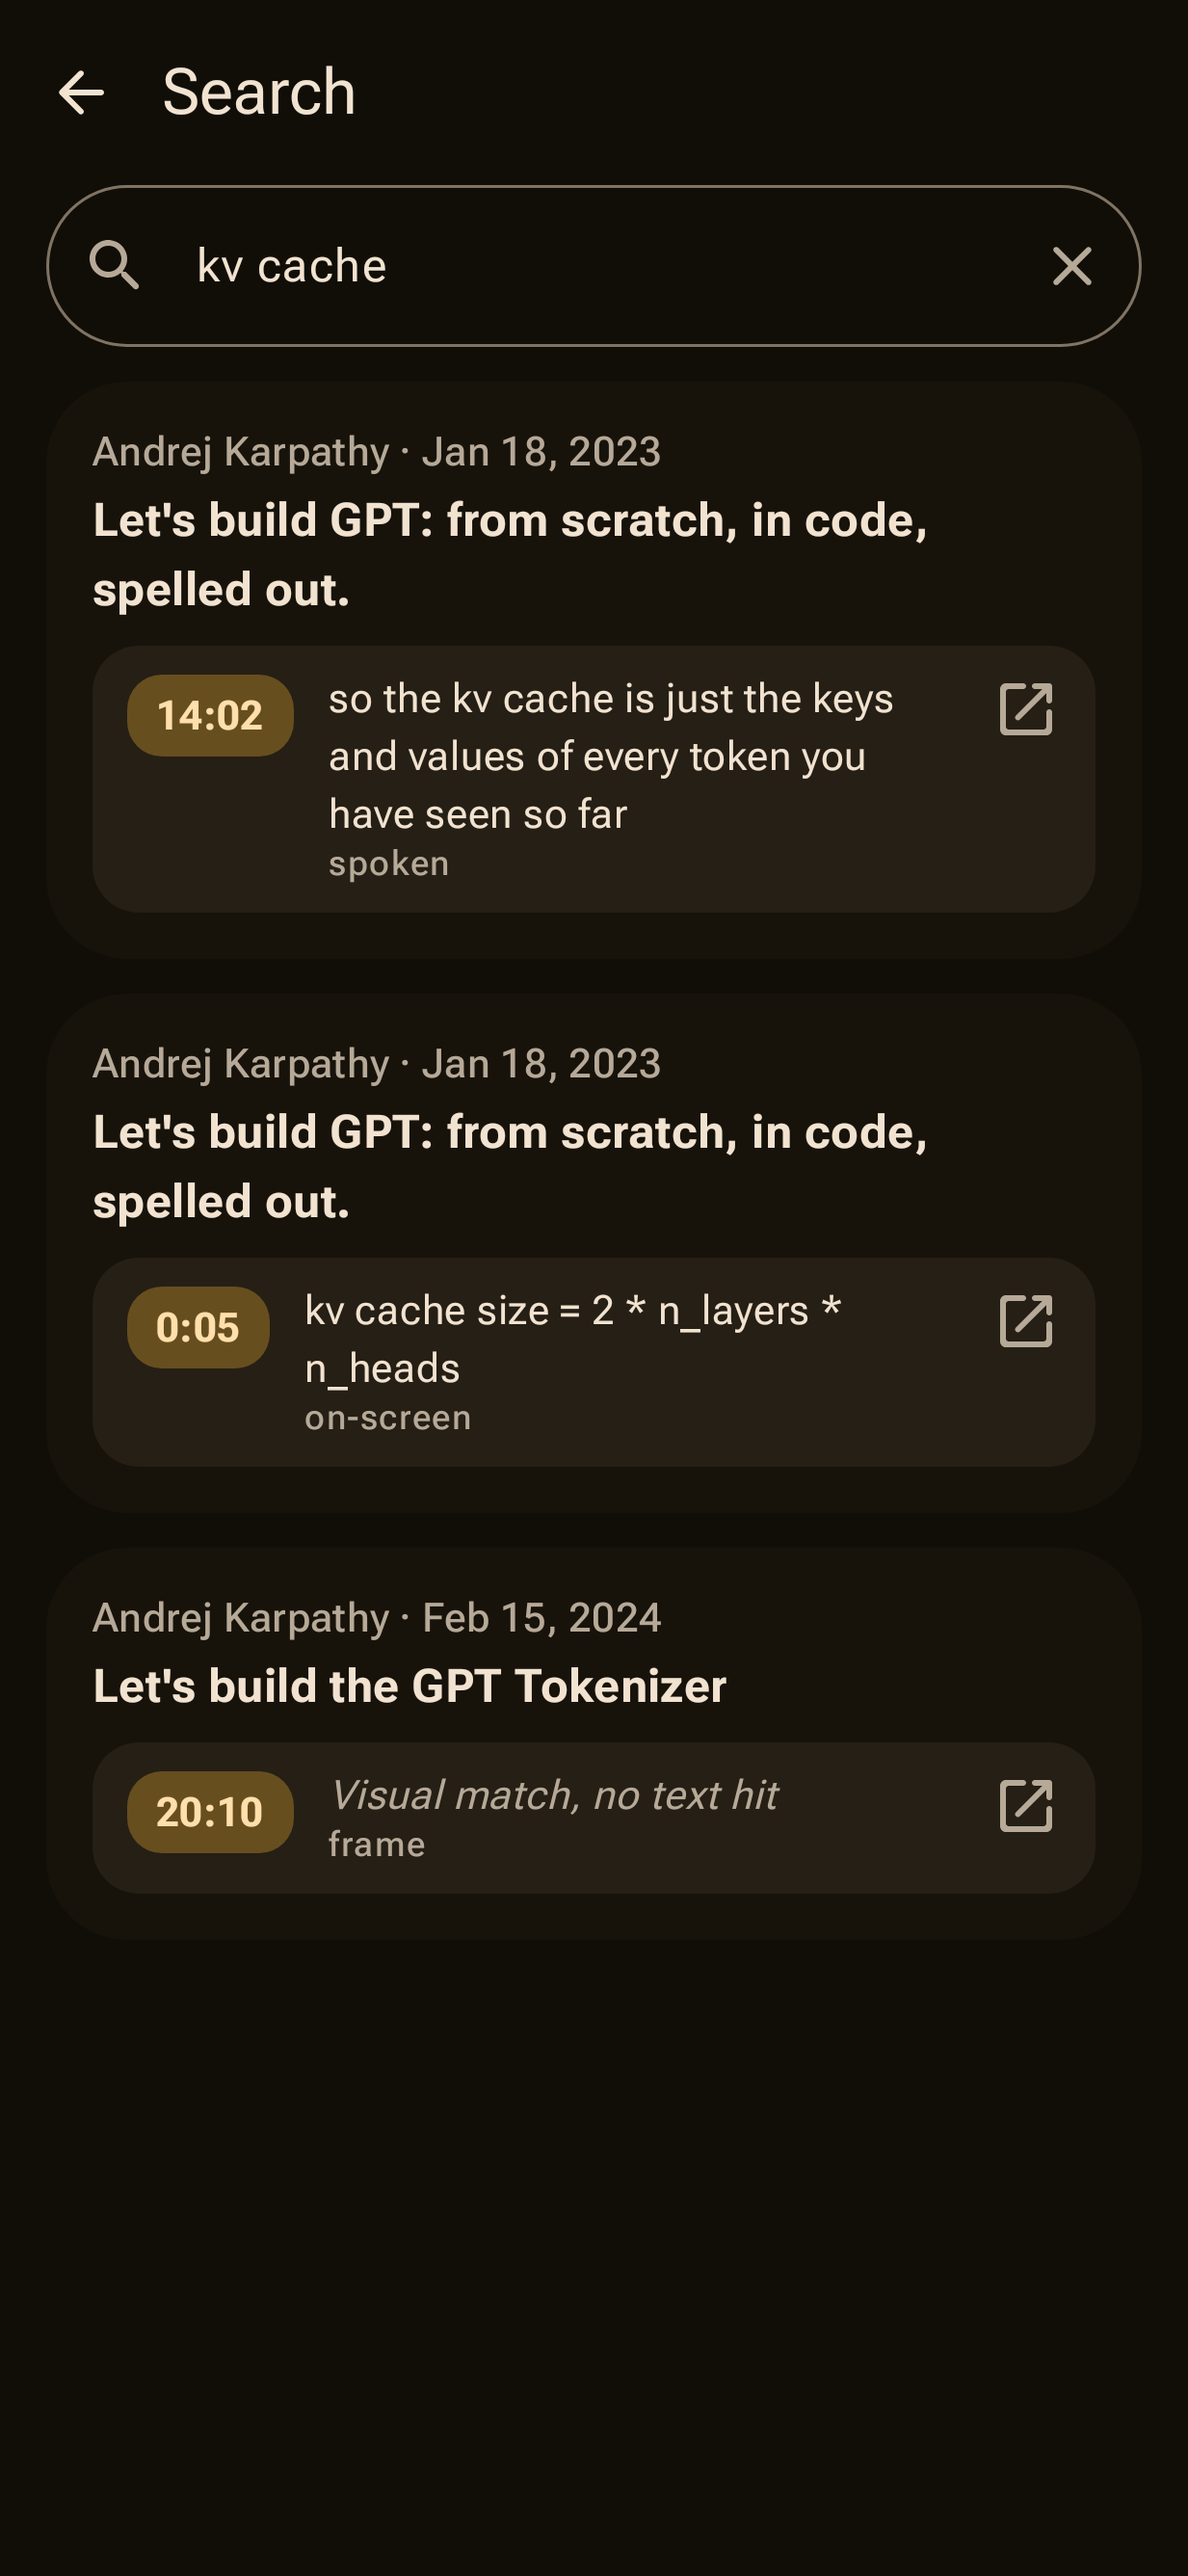
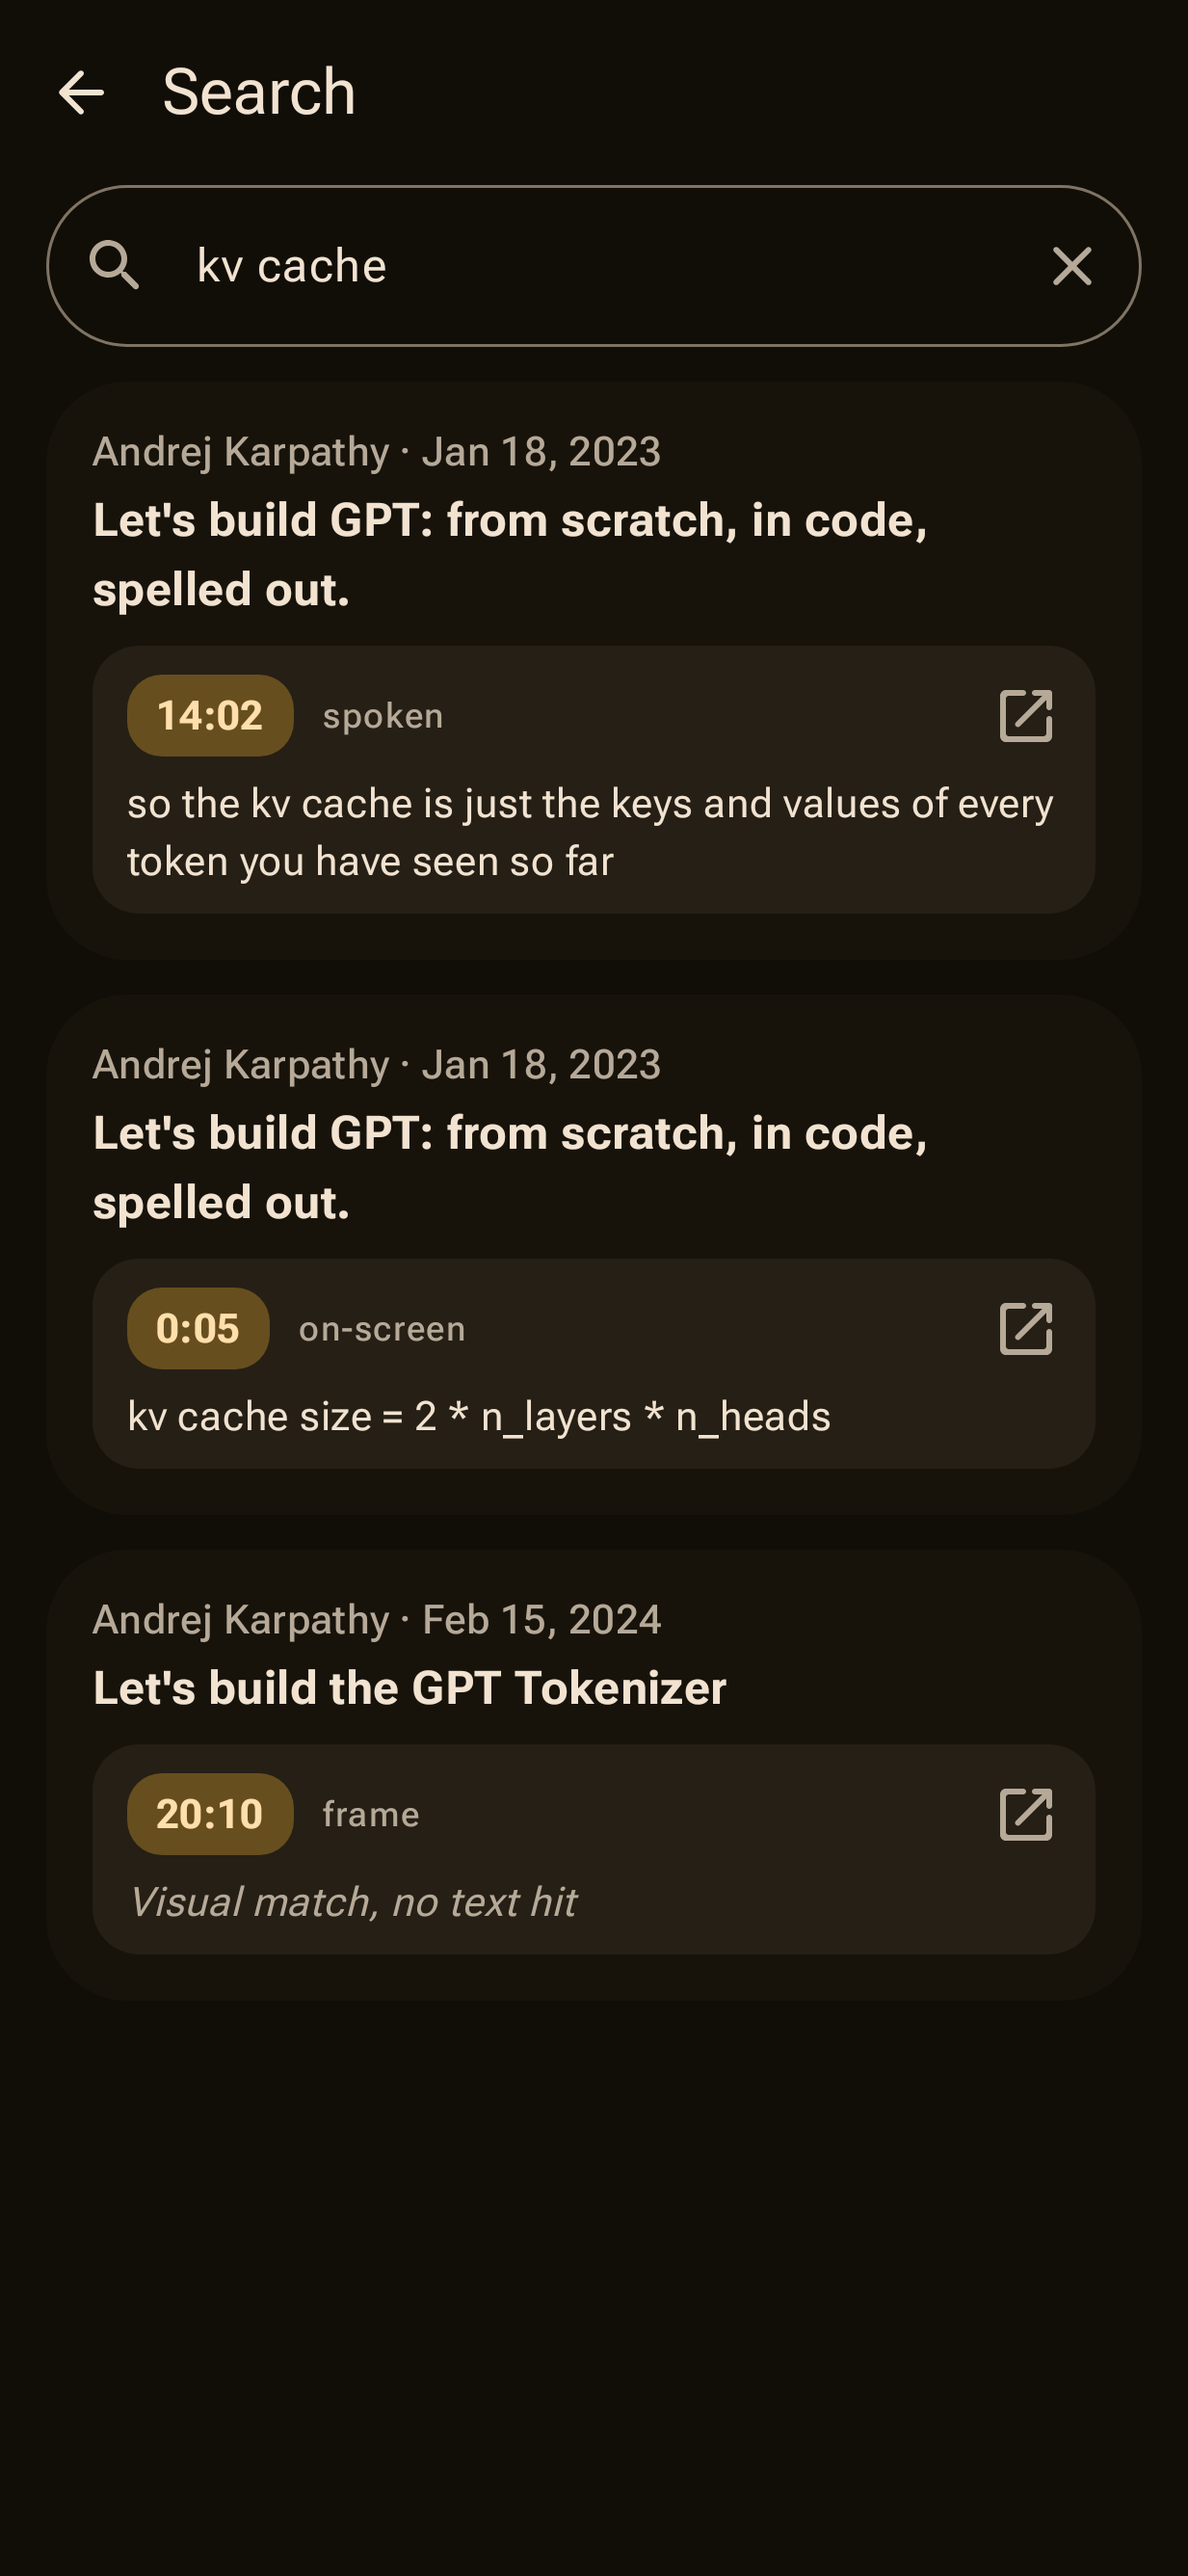
android: a search moment puts its timestamp above the text (#175)
The chip sat beside the text and left a gap under it; the chip, the
evidence and the open icon now share one line, and the text takes the
full width.

diff --git a/android/app/src/main/kotlin/dev/vidtheque/app/ui/search/SearchScreen.kt b/android/app/src/main/kotlin/dev/vidtheque/app/ui/search/SearchScreen.kt
@@ -176,17 +176,17 @@ private fun HitRow(hit: SearchHit, container: Modifier, onOpen: (SearchHit) -> U
                 color = MaterialTheme.colorScheme.surfaceContainerHigh,
                 modifier = Modifier.fillMaxWidth().padding(top = 4.dp),
             ) {
-                Row(Modifier.padding(horizontal = 12.dp, vertical = 10.dp), verticalAlignment = Alignment.Top, horizontalArrangement = Arrangement.spacedBy(12.dp)) {
-                    Surface(shape = MaterialTheme.shapes.medium, color = MaterialTheme.colorScheme.primaryContainer) {
-                        Text(duration(hit.matchStart ?: hit.start), style = MaterialTheme.typography.labelLargeEmphasized, color = MaterialTheme.colorScheme.onPrimaryContainer, modifier = Modifier.padding(horizontal = 10.dp, vertical = 6.dp))
+                // The chip heads the moment and the text runs the full width under it (#175).
+                Column(Modifier.padding(horizontal = 12.dp, vertical = 10.dp), verticalArrangement = Arrangement.spacedBy(8.dp)) {
+                    Row(verticalAlignment = Alignment.CenterVertically, horizontalArrangement = Arrangement.spacedBy(10.dp)) {
+                        Surface(shape = MaterialTheme.shapes.medium, color = MaterialTheme.colorScheme.primaryContainer) {
+                            Text(duration(hit.matchStart ?: hit.start), style = MaterialTheme.typography.labelLargeEmphasized, color = MaterialTheme.colorScheme.onPrimaryContainer, modifier = Modifier.padding(horizontal = 10.dp, vertical = 6.dp))
+                        }
+                        Text(evidence(hit.source), style = MaterialTheme.typography.labelMedium, color = MaterialTheme.colorScheme.onSurfaceVariant, modifier = Modifier.weight(1f))
+                        if (linked) Icon(Icons.AutoMirrored.Rounded.OpenInNew, contentDescription = "Open on YouTube at this moment", tint = MaterialTheme.colorScheme.onSurfaceVariant)
                     }
-                    Column(Modifier.weight(1f), verticalArrangement = Arrangement.spacedBy(2.dp)) {
-                        if (hit.text != null) Text(hit.text, style = MaterialTheme.typography.bodyMedium, maxLines = 4)
-                        else Text("Visual match, no text hit", style = MaterialTheme.typography.bodyMedium, fontStyle = FontStyle.Italic, color = MaterialTheme.colorScheme.onSurfaceVariant)
-                        val where = evidence(hit.source)
-                        if (where.isNotEmpty()) Text(where, style = MaterialTheme.typography.labelMedium, color = MaterialTheme.colorScheme.onSurfaceVariant)
-                    }
-                    if (linked) Icon(Icons.AutoMirrored.Rounded.OpenInNew, contentDescription = "Open on YouTube at this moment", tint = MaterialTheme.colorScheme.onSurfaceVariant)
+                    if (hit.text != null) Text(hit.text, style = MaterialTheme.typography.bodyMedium, maxLines = 4)
+                    else Text("Visual match, no text hit", style = MaterialTheme.typography.bodyMedium, fontStyle = FontStyle.Italic, color = MaterialTheme.colorScheme.onSurfaceVariant)
                 }
             }
         }
